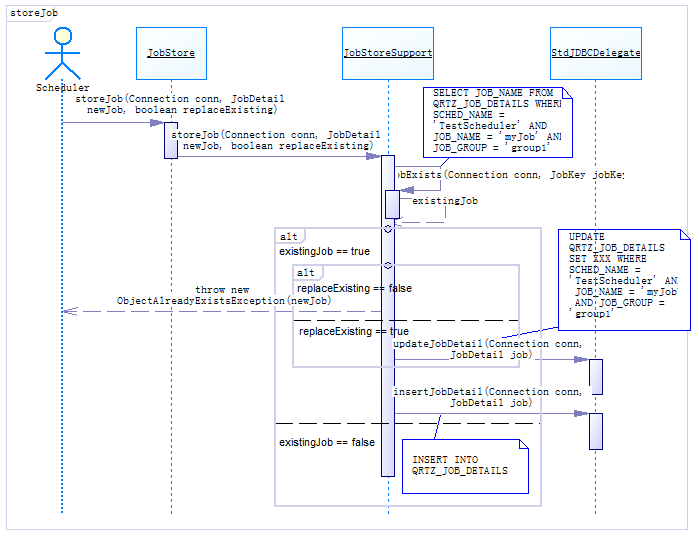
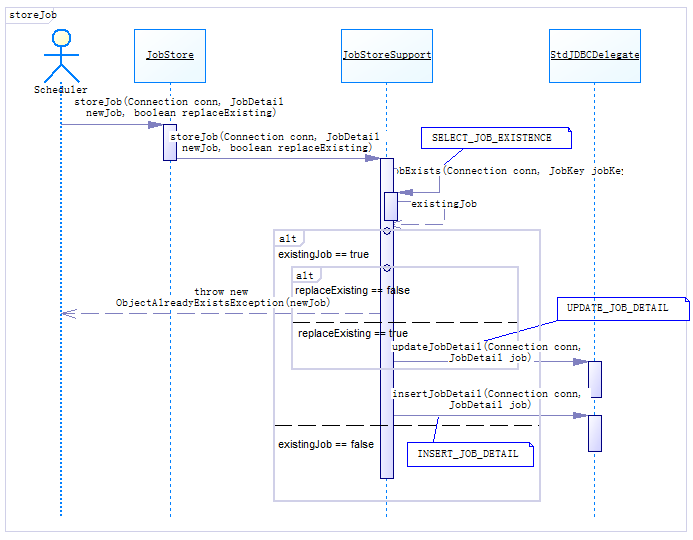
quartz introduction -- code analysis

diff --git a/TaskScheduling/src/main/java/com/study/taskscheduling/quartz/_3job/TestJobCRUD.java b/TaskScheduling/src/main/java/com/study/taskscheduling/quartz/_3job/TestJobCRUD.java
@@ -1,0 +1,72 @@
+package com.study.taskscheduling.quartz._3job;
+
+import org.quartz.JobBuilder;
+import org.quartz.JobDetail;
+import org.quartz.JobKey;
+import org.quartz.Scheduler;
+import org.quartz.SchedulerException;
+import org.quartz.SchedulerFactory;
+import org.quartz.SimpleScheduleBuilder;
+import org.quartz.Trigger;
+import org.quartz.TriggerBuilder;
+import org.quartz.impl.StdSchedulerFactory;
+
+public class TestJobCRUD {
+
+	public static void main(String[] args) throws SchedulerException {
+		SchedulerFactory schedulerFactory = new StdSchedulerFactory();
+
+		Scheduler scheduler = schedulerFactory.getScheduler();
+
+		JobKey jobKey = new JobKey("crudJob", "default");
+
+		JobDetail job = JobBuilder.newJob(MyInterruptableJob.class)
+				.withIdentity(jobKey).build();
+
+		SimpleScheduleBuilder scheBuilder = SimpleScheduleBuilder
+				.simpleSchedule().withIntervalInSeconds(3).repeatForever();
+
+		Trigger trigger = TriggerBuilder.newTrigger().startNow()
+				.withIdentity("trigger", "default").withSchedule(scheBuilder)
+				.build();
+
+		scheduler.scheduleJob(job, trigger);
+
+		scheduler.start();
+
+		try {
+			Thread.sleep(3000);
+		} catch (InterruptedException e) {
+			e.printStackTrace();
+		}
+		
+		System.out.println("暂停.....");
+		scheduler.pauseJob(jobKey);
+
+		try {
+			Thread.sleep(3000);
+		} catch (InterruptedException e) {
+			e.printStackTrace();
+		}
+		
+		System.out.println("重新开始...");
+		scheduler.resumeJob(jobKey);
+		
+		try {
+			Thread.sleep(3000);
+		} catch (InterruptedException e) {
+			e.printStackTrace();
+		}
+		
+		System.out.println("中断...");
+		scheduler.interrupt(jobKey);
+		
+		try {
+			Thread.sleep(3000);
+		} catch (InterruptedException e) {
+			e.printStackTrace();
+		}
+		System.out.println("删除...");
+		scheduler.deleteJob(jobKey);
+	}
+}

diff --git a/TaskScheduling/Quartz.md b/TaskScheduling/Quartz.md
@@ -201,5 +201,59 @@ TransactionCallback接口实例：
 TransactionCallback接口调用：  
 ![TransactionCallback接口调用](../resources/quartz/images/jobstore_transaction_caller_code.png "TransactionCallback接口调用")  
 #####添加JobDetail
-![添加JobDetail](../resources/quartz/images/jdbcjobstore_add_job.png "添加JobDetail")  
+![添加JobDetail](../resources/quartz/images/jdbcjobstore_store_job.png "添加JobDetail")  
+SQL Detail  
+- SELECT_JOB_EXISTENCE  
+```SQL
+SELECT JOB_NAME FROM QRTZ_JOB_DETAILS WHERE SCHED_NAME = 'TestScheduler' AND JOB_NAME = 'myJob' AND JOB_GROUP = 'group1'
+```
+- UPDATE_JOB_DETAIL  
+```SQL
+UPDATE QRTZ_JOB_DETAILS SET XXX WHERE SCHED_NAME = 'TestScheduler' AND JOB_NAME = 'myJob' AND JOB_GROUP = 'group1'
+```
+- INSERT_JOB_DETAIL  
+```SQL
+INSERT INTO QRTZ_JOB_DETAILS (SCHED_NAME, JOB_NAME, JOB_GROUP, DESCRIPTION, JOB_CLASS_NAME, IS_DURABLE, IS_NONCONCURRENT, IS_UPDATE_DATA, REQUESTS_RECOVERY, JOB_DATA)  VALUES(XXX)
+```
+#####暂停JobDetail
+![暂停JobDetail](../resources/quartz/images/jdbcjobstore_pause_job.png "暂停JobDetail")  
+SQL Detail
+- SELECT_TRIGGERS_FOR_JOB  
+```SQL
+ SELECT TRIGGER_NAME, TRIGGER_GROUP FROM QRTZ_TRIGGERS WHERE SCHED_NAME = 'TestScheduler' AND JOB_NAME = 'crudJob' AND JOB_GROUP = 'default'
+```
+- SELECT_TRIGGER_STATE  
+```SQL
+ SELECT TRIGGER_STATE FROM QRTZ_TRIGGERS WHERE SCHED_NAME = 'TestScheduler' AND TRIGGER_NAME = 'trigger' AND TRIGGER_GROUP = 'default'
+```
+- UPDATE_TRIGGER_STATE  
+```SQL
+ UPDATE QRTZ_TRIGGERS SET TRIGGER_STATE = 'PAUSED/PAUSED_BLOCKED' WHERE SCHED_NAME = 'TestScheduler' AND TRIGGER_NAME = 'trigger' AND TRIGGER_GROUP = 'default'
+```
 #####添加Trigger
+![添加Trigger](../resources/quartz/images/jdbcjobstore_store_trigger.png "添加Trigger")  
+SQL Detail  
+- SELECT_TRIGGER_EXISTENCE  
+```SQL
+SELECT TRIGGER_NAME FROM QRTZ_TRIGGERS WHERE SCHED_NAME = 'TestScheduler' AND TRIGGER_NAME = 'myTrigger' AND TRIGGER_GROUP = 'group1'
+```
+- SELECT_PAUSED_TRIGGER_GROUP  
+```SQL
+SELECT TRIGGER_GROUP FROM QRTZ_PAUSED_TRIGGER_GRPS WHERE SCHED_NAME = 'TestScheduler' AND TRIGGER_GROUP = 'group1'
+```
+- INSERT_PAUSED_TRIGGER_GROUP  
+```SQL
+INSERT INTO QRTZ_PAUSED_TRIGGER_GRPS (SCHED_NAME, TRIGGER_GROUP) VALUES('TestScheduler', 'group1')
+```
+- SELECT_FIRED_TRIGGERS_OF_JOB  
+```SQL
+SELECT * FROM QRTZ_FIRED_TRIGGERS WHERE SCHED_NAME = 'TestScheduler' AND JOB_NAME = 'myJob' AND JOB_GROUP = 'group1'
+```
+- UPDATE_TRIGGER  
+```SQL
+UPDATE QRTZ_TRIGGERS SET XXX WHERE SCHED_NAME = 'TestScheduler' AND TRIGGER_NAME = 'myTrigger' AND TRIGGER_GROUP = 'group1'
+```
+- INSERT_TRIGGER  
+```SQL
+INSERT INTO QRTZ_TRIGGERS (SCHED_NAME, TRIGGER_NAME, TRIGGER_GROUP, JOB_NAME, JOB_GROUP, DESCRIPTION, NEXT_FIRE_TIME, PREV_FIRE_TIME, TRIGGER_STATE, TRIGGER_TYPE, START_TIME, END_TIME, CALENDAR_NAME, MISFIRE_INSTR, JOB_DATA, PRIORITY)  VALUES(XXX)
+```
